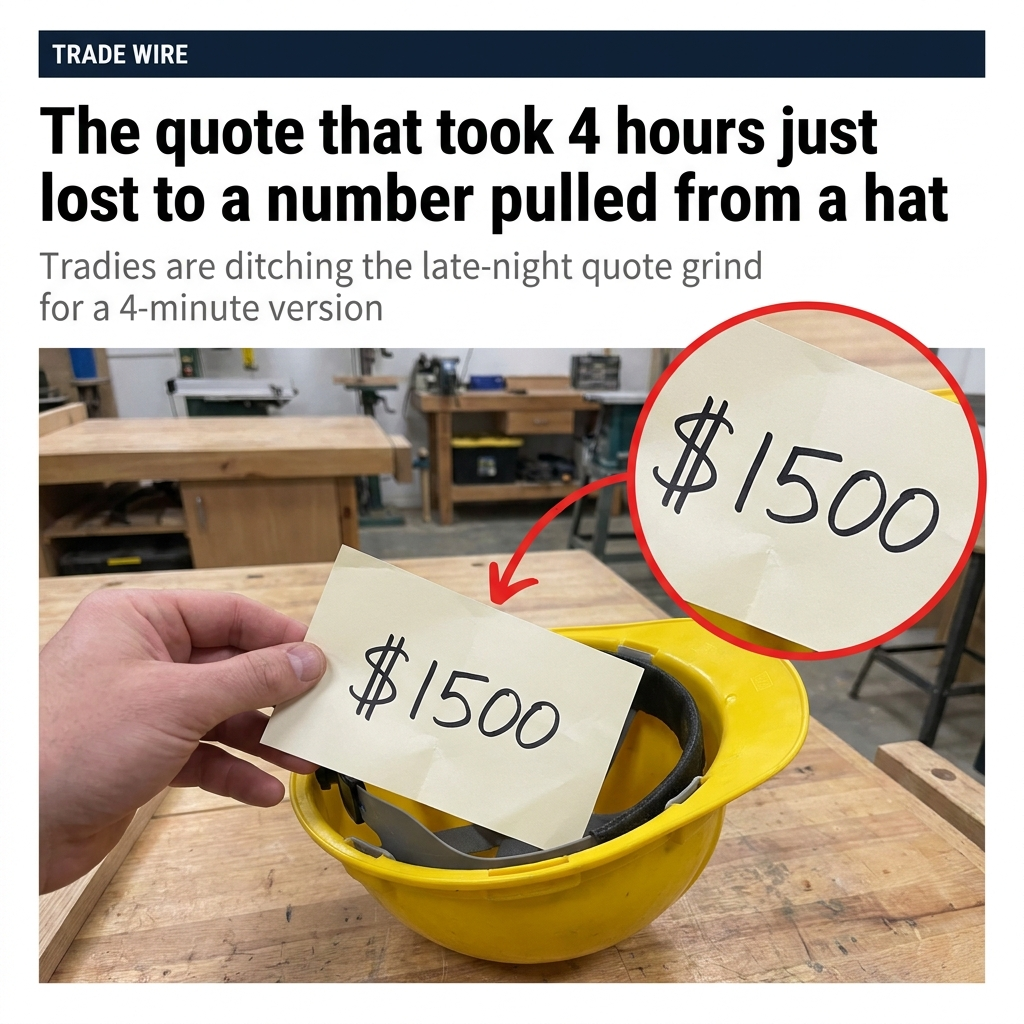
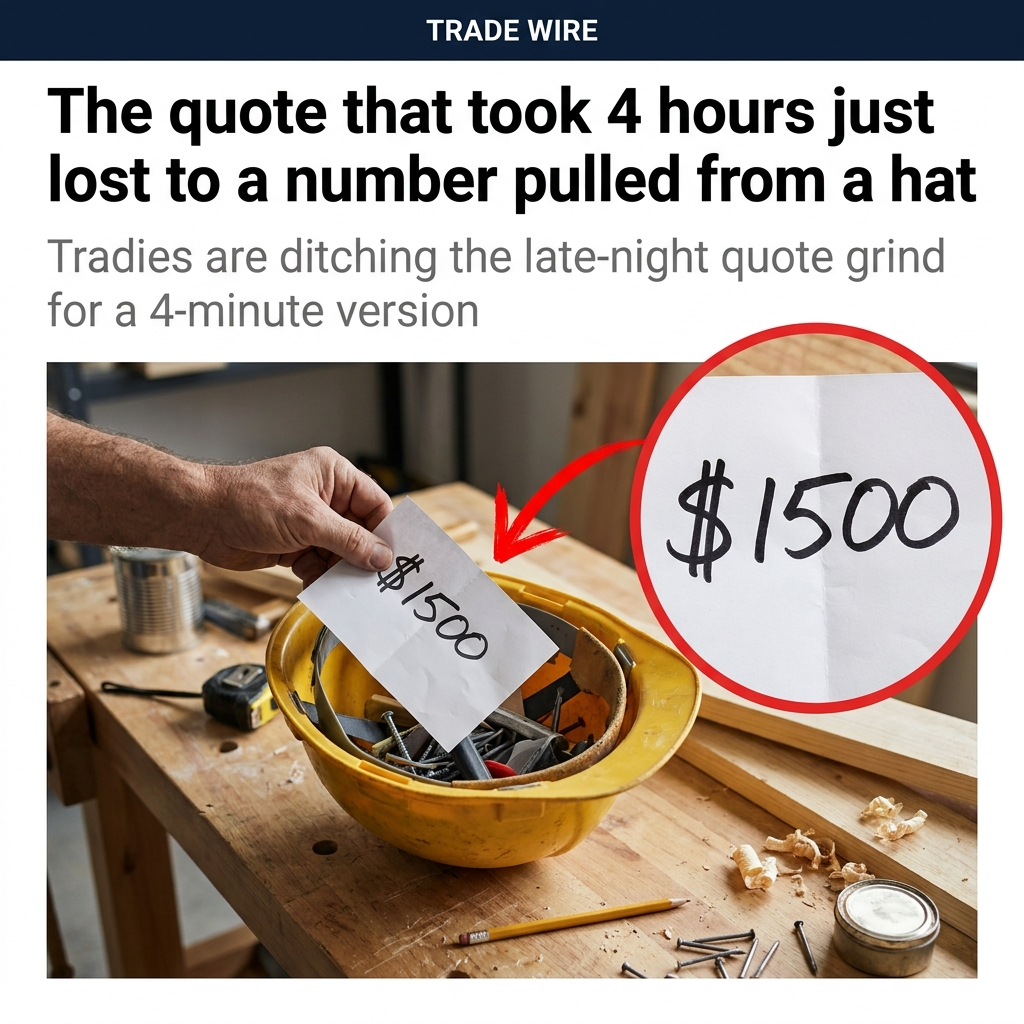
fix(ads): make the circle inset reveal detail instead of repeating it
The previous pass demanded phone screens and the price note be "large and
perfectly legible", which made the base detail big enough to read on its own -
so the red circle magnified something already sitting there at full size. Pure
decoration that covered image area and added clutter.

The native-highlight format only works when the circle is the thing that makes
the detail readable. Base photos are now wide shots where the detail is small,
tilted or glare-washed: you can see a number is there, you can't read it. The
inset is the payoff.

Side benefit: this also pulls qm-b2-inset and qm-a1-inset visibly apart from
their plain counterparts (qm-b2-ute-driveway, qm-a1-kitchen-9pm), which had
become near-duplicates differing only by a decorative circle. Meta collapses
creatives above ~60% similarity into one entity, so near-duplicates on the
bench would have cannibalised each other on swap-in.

diff --git a/marketing/ad-creative/generate.py b/marketing/ad-creative/generate.py
@@ -122,32 +122,44 @@ ADS = {
         "Crisp editorial layout. All text exactly as specified, spelled correctly."
     ),
     # Native-highlight format (Suby): raw photo + zoomed detail in a red-ringed
-    # circle inset + hand-drawn arrow. The inset must be a TRUE zoom of the
-    # thing the arrow points at - the first round zoomed a flat sheet while the
-    # hand held a crumpled ball, which reads as a mistake.
+    # circle inset + hand-drawn arrow.
+    #
+    # TWO failure modes, and avoiding one causes the other:
+    #  1. The inset must be a TRUE zoom of what the arrow points at. Round one
+    #     zoomed a flat sheet while the hand held a crumpled ball.
+    #  2. The inset must REVEAL something. Round two made the base detail large
+    #     and perfectly legible, so the circle magnified something already
+    #     readable - pure decoration that just covers up image area.
+    # So: in the BASE photo the detail is small, angled or glare-washed - you can
+    # tell a number is there but not read it. The circle is what makes it
+    # readable. That is also what keeps these visibly distinct from their plain
+    # counterparts (qm-b2-ute-driveway, qm-a1-kitchen-9pm), which matters because
+    # >60% creative similarity gets collapsed into one entity by Meta.
     "qm-b2-inset": (
         "Candid smartphone photo from the DRIVER'S seat of an Australian ute parked in a suburban "
         "driveway. This is a right-hand-drive vehicle: the steering wheel is on the RIGHT of the frame. "
-        "A single hand holds a phone up in front of the dashboard; the driver's other hand is out of "
-        "shot. Exactly one person is present, so only ONE arm and ONE hand appear anywhere in the frame - "
-        "there is no second pair of hands and no spare arm near the steering wheel. "
-        "The phone screen shows a total '$4,850' above a blue 'Send quote' button. "
-        "Overlaid on the top-right: a large circular inset with a thick red ring containing a zoomed-in "
-        "close-up of that same phone screen, showing the same '$4,850' and the same blue 'Send quote' "
-        "button, held in the same hand at the same angle. A hand-drawn style red arrow points from the "
-        "circle down to the phone. Grainy authentic phone-photo look for the base image, crisp readable "
-        "detail inside the circle. Brick house visible through the windscreen in daylight. "
+        "This is a WIDE interior shot taking in the whole cabin, so the phone is SMALL in the frame. "
+        "A hand rests a phone low down near the centre console, tilted away from the camera with "
+        "daylight glare washing across the screen: you can tell a quote with a dollar figure and a blue "
+        "button is on it, but the screen is small and reflective and the number cannot be read. "
+        "Overlaid on the top-right: a large circular inset with a thick red ring containing a zoomed-in, "
+        "glare-free close-up of that same phone screen, where '$4,850' and a blue 'Send quote' button "
+        "are now big and perfectly readable. A hand-drawn style red arrow points from the circle down to "
+        "the small phone. Grainy authentic phone-photo look for the base image, crisp readable detail "
+        "inside the circle only. Brick house visible through the windscreen in daylight. "
         "The centre of the steering wheel is a plain undecorated plastic airbag cover: it carries NO "
         "emblem, NO oval or circular badge, NO logo and NO lettering of any kind."
     ),
     "qm-a1-inset": (
         "Candid low-light smartphone photo of a tradesperson in a hi-vis shirt at a kitchen table at "
         "night, hunched over a laptop with crumpled paper quotes and a coffee mug, warm pendant light. "
-        "On the kitchen wall behind them is a digital clock reading '9:05 PM'. "
+        "This is a WIDE shot of the whole kitchen taken from the far side of the room, so the small "
+        "digital clock on the far bench is TINY in the frame - you can see it is a clock with glowing "
+        "digits, but at that distance the time cannot be read. "
         "Overlaid on the top-left: a large circular inset with a thick red ring containing a zoomed-in "
-        "close-up of that same wall clock, showing the same '9:05 PM'. A hand-drawn style red arrow "
-        "points from the circle across to the clock on the wall. "
-        "Grainy authentic phone-photo look, crisp detail inside the circle. "
+        "close-up of that same small clock, where '9:05 PM' is now big and perfectly readable. "
+        "A hand-drawn style red arrow points from the circle across to the tiny clock on the bench. "
+        "Grainy authentic phone-photo look, crisp detail inside the circle only. "
         "The papers on the table are blurred and carry no readable text or logos. "
         "The laptop is a plain dark laptop and the back of its lid is completely blank: no illuminated "
         "logo, no fruit symbol, no badge, no lettering. "
@@ -163,13 +175,15 @@ ADS = {
         "Bold black sans-serif news headline reading EXACTLY: 'The quote that took 4 hours just lost "
         "to a number pulled from a hat'. Smaller grey subheadline: 'Tradies are ditching the "
         "late-night quote grind for a 4-minute version'. "
-        "Below the text, the article photo: a hand pulling a FLAT, slightly creased piece of paper out "
-        "of an upturned yellow hard hat on a timber workbench. The paper is held flat and facing the "
-        "camera with the handwritten price '$1500' scrawled on it in thick marker, large and clearly "
-        "readable. Overlaid on the photo's top-right corner is a large red-ringed circular inset "
-        "containing a zoomed close-up of that SAME flat piece of paper showing the SAME handwritten "
-        "'$1500' at the same angle, and a hand-drawn style red arrow runs from the circle down to the "
-        "paper in the hand. Crisp editorial layout. All text exactly as specified, spelled correctly."
+        "Below the text, the article photo is a WIDE shot of a whole timber workbench, so the hard hat "
+        "and paper sit SMALL within it: a hand lifts a slightly creased piece of paper out of an "
+        "upturned yellow hard hat, the paper tilted steeply away from the camera so the handwritten "
+        "marker scrawl on it is small and foreshortened - you can see a price is written there but you "
+        "cannot read it. Overlaid on the photo's top-right corner is a large red-ringed circular inset "
+        "containing a zoomed, straightened close-up of that SAME piece of paper, where the handwritten "
+        "'$1500' is now big and perfectly readable. A hand-drawn style red arrow runs from the circle "
+        "down to the small paper. Crisp editorial layout. The headline and subheadline text is exactly "
+        "as specified and spelled correctly."
     ),
 }
 
